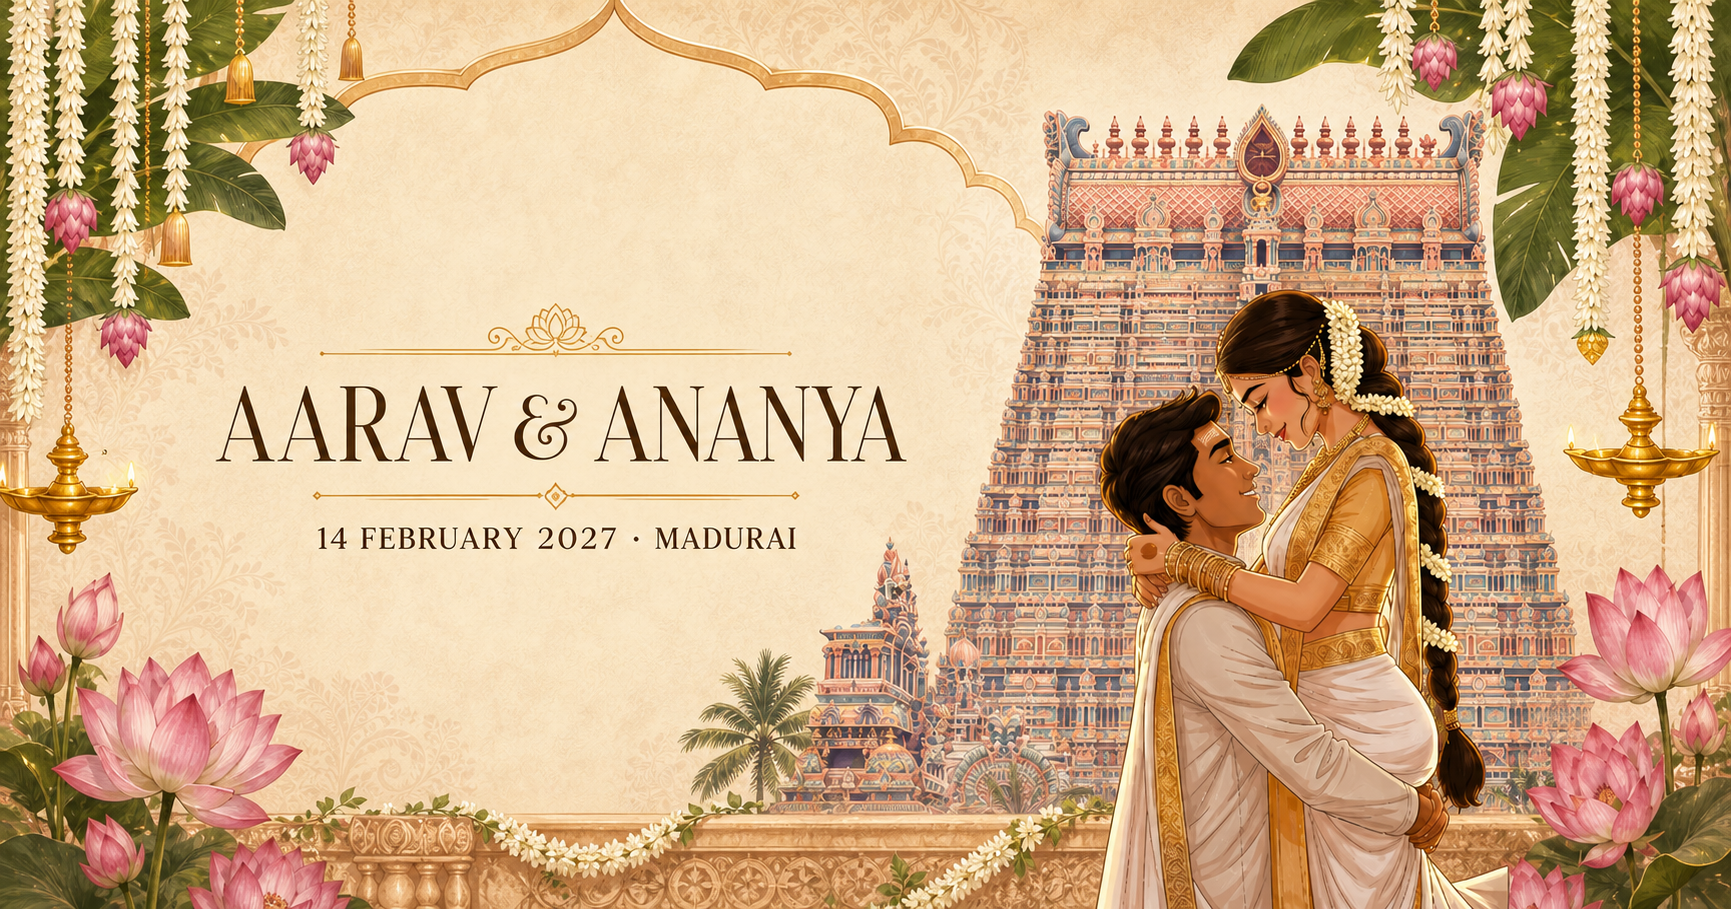
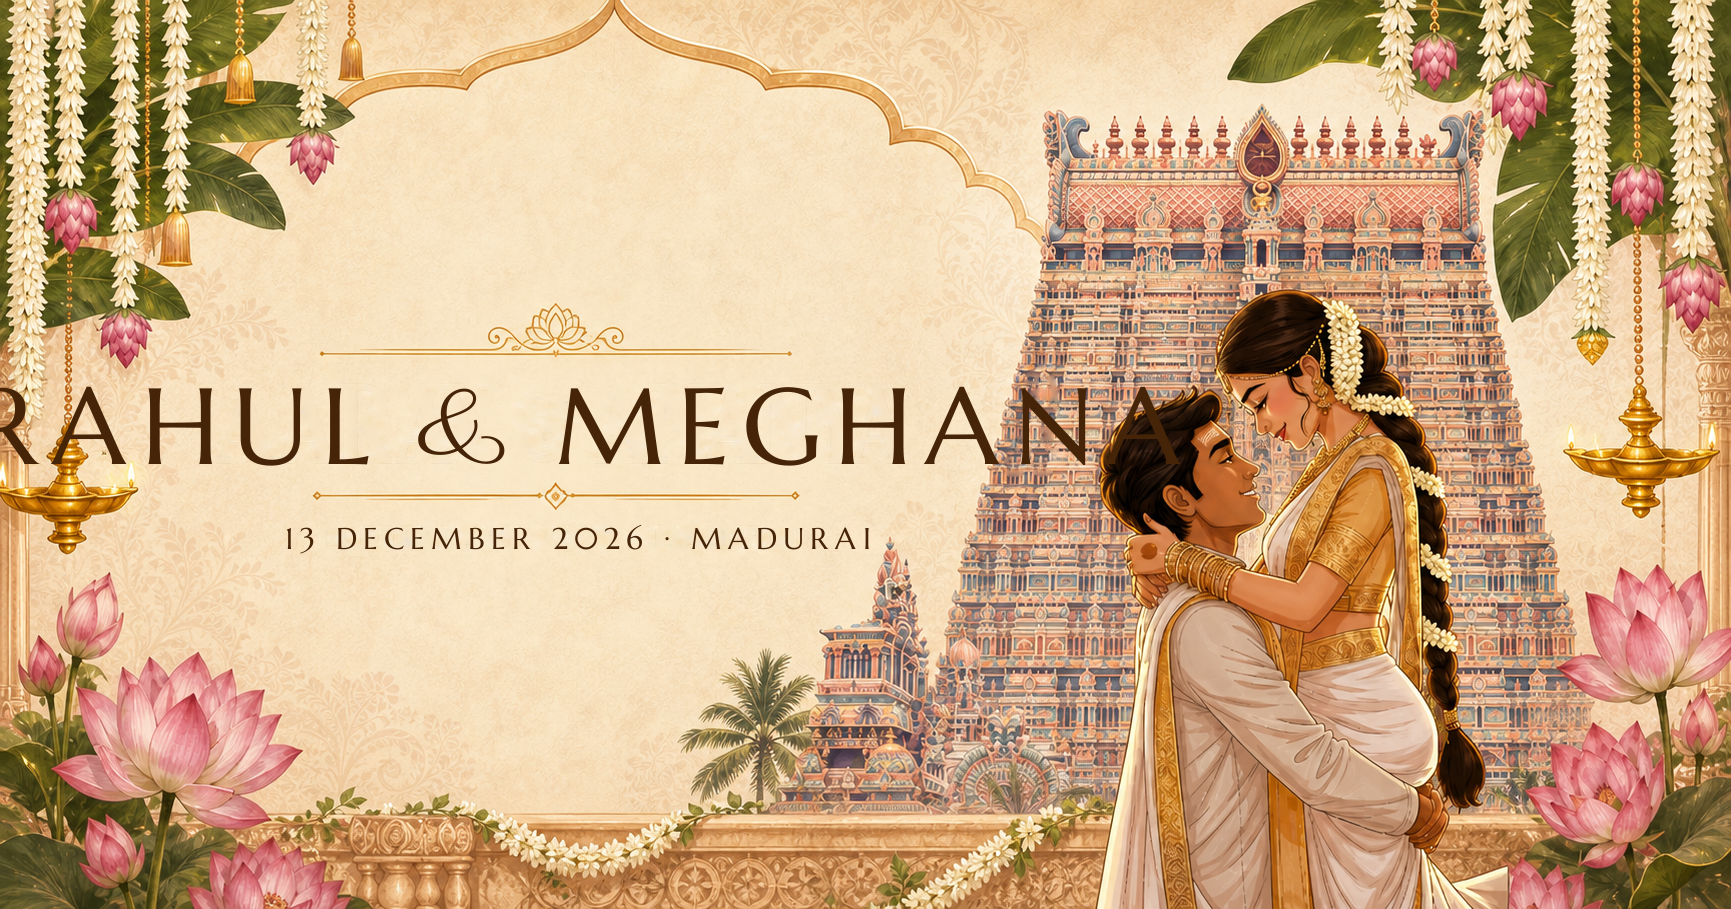
Update writings in background image to RAHUL & MEGHANA and 13 DECEMBER 2026 · MADURAI

Changed region(s): [[0.0, 0.4004, 0.6863, 0.5237], [0.156, 0.5545, 0.4991, 0.6161]]

diff --git a/assets/index-BEdYU7DH.css b/assets/index-BEdYU7DH.css
@@ -14,3 +14,15 @@
 .music-toggle-btn:not(.playing) .music-icon-paused{display:block}
 @keyframes musicDiscSpin{from{transform:rotate(0deg)}to{transform:rotate(360deg)}}
 
+@media (min-width: 860px) {
+  .footer-copy h2, .footer-copy span {
+    display: none;
+  }
+  .footer-copy p {
+    font-size: 32px;
+    margin-bottom: 24px;
+    text-shadow: 0 2px 10px rgba(0,0,0,0.85);
+  }
+}
+
+
